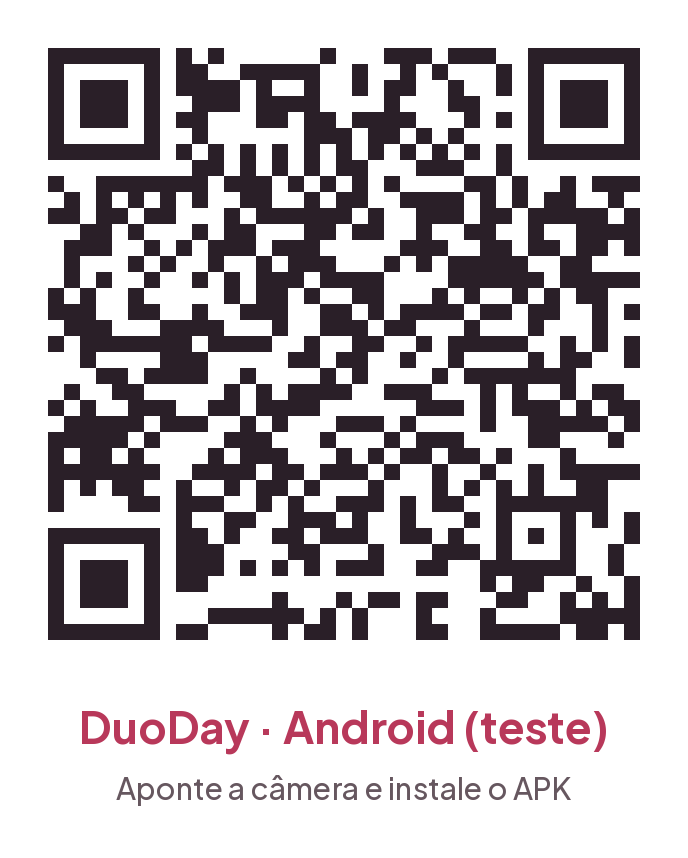
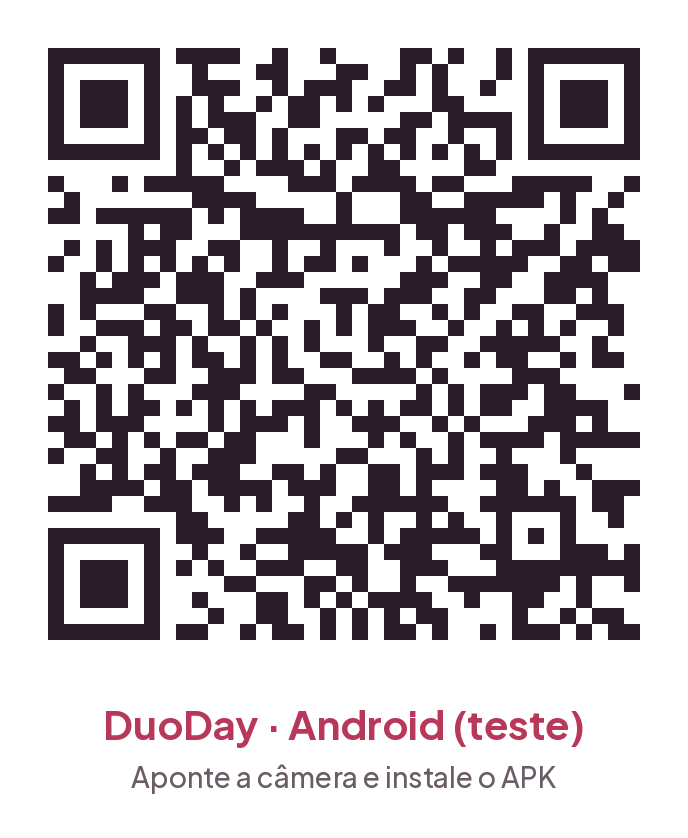
QR code e link do build preview de 22/10
Claude-Session: https://claude.ai/code/session_01UQTBgf1HC2SdYB7U8azCM1

diff --git a/docs/ONDE-PAREI.md b/docs/ONDE-PAREI.md
@@ -67,7 +67,9 @@ do `eas.json` já tem a URL e a chave publicável do TST.
 1. Publicar: seguir `docs/WEB.md` (Cloudflare Pages para `duoday.com.br` e `app.duoday.com.br`,
    `pg_net`, migration, segredos VAPID e Vault). Pode ser feito pelo Claude com acesso à Cloudflare.
 2. Testar num iPhone: instalar pelo Safari, criar PIN, digital/rosto, bloqueio e um lembrete real.
-3. Gerar um build novo do Android (`preview`) e testar as novidades no celular.
+3. Testar no celular o build `preview` de 22/10 (QR em `marketing/qr/`):
+   https://expo.dev/accounts/thaleschagas-team/projects/duoday/builds/9a8100f8-4ebb-46f5-a3ad-3db8f686efec
+   Migration `web_push` ainda **não** aplicada no TST (o app Android não depende dela).
 4. Trocar o link do APK em `site/_redirects` pelo de produção quando existir.
 5. Continuar as mudanças no app; depois refazer o vídeo com a voz nova.
 6. Pendências LGPD em `docs/PRIVACIDADE.md` (preencher o controlador, logs de 6 meses etc.).

diff --git a/marketing/qr/README.md b/marketing/qr/README.md
@@ -1,8 +1,10 @@
 # QR code do APK de teste
 
-`duoday-apk-qrcode.png` abre o download do build `preview` do Android de 21/10/2026
-(com o seletor de cor prismático), que usa o banco de **teste** (TST). Não é para divulgação.
+`duoday-apk-qrcode.png` abre o download do build `preview` do Android de 22/10/2026
+(barra flutuante, dias em destaque, segurança com digital/rosto, login rápido), que usa o banco de **teste** (TST). Não é para divulgação.
 
-Link: https://expo.dev/artifacts/eas/Cu5Qvc3O-9oY6jApoKe1wQl9PWsCtvD4Hed4FOjRrX4.apk
+Link: https://expo.dev/artifacts/eas/jUywsPNhrGGuMQqBfTYvUGazRImUA3VdIqEnwr3BSUA.apk
+
+Página do build: https://expo.dev/accounts/thaleschagas-team/projects/duoday/builds/9a8100f8-4ebb-46f5-a3ad-3db8f686efec
 
 Gerado com Python (`pip install "qrcode[pil]"`), correção de erro M, texto na fonte do app.
